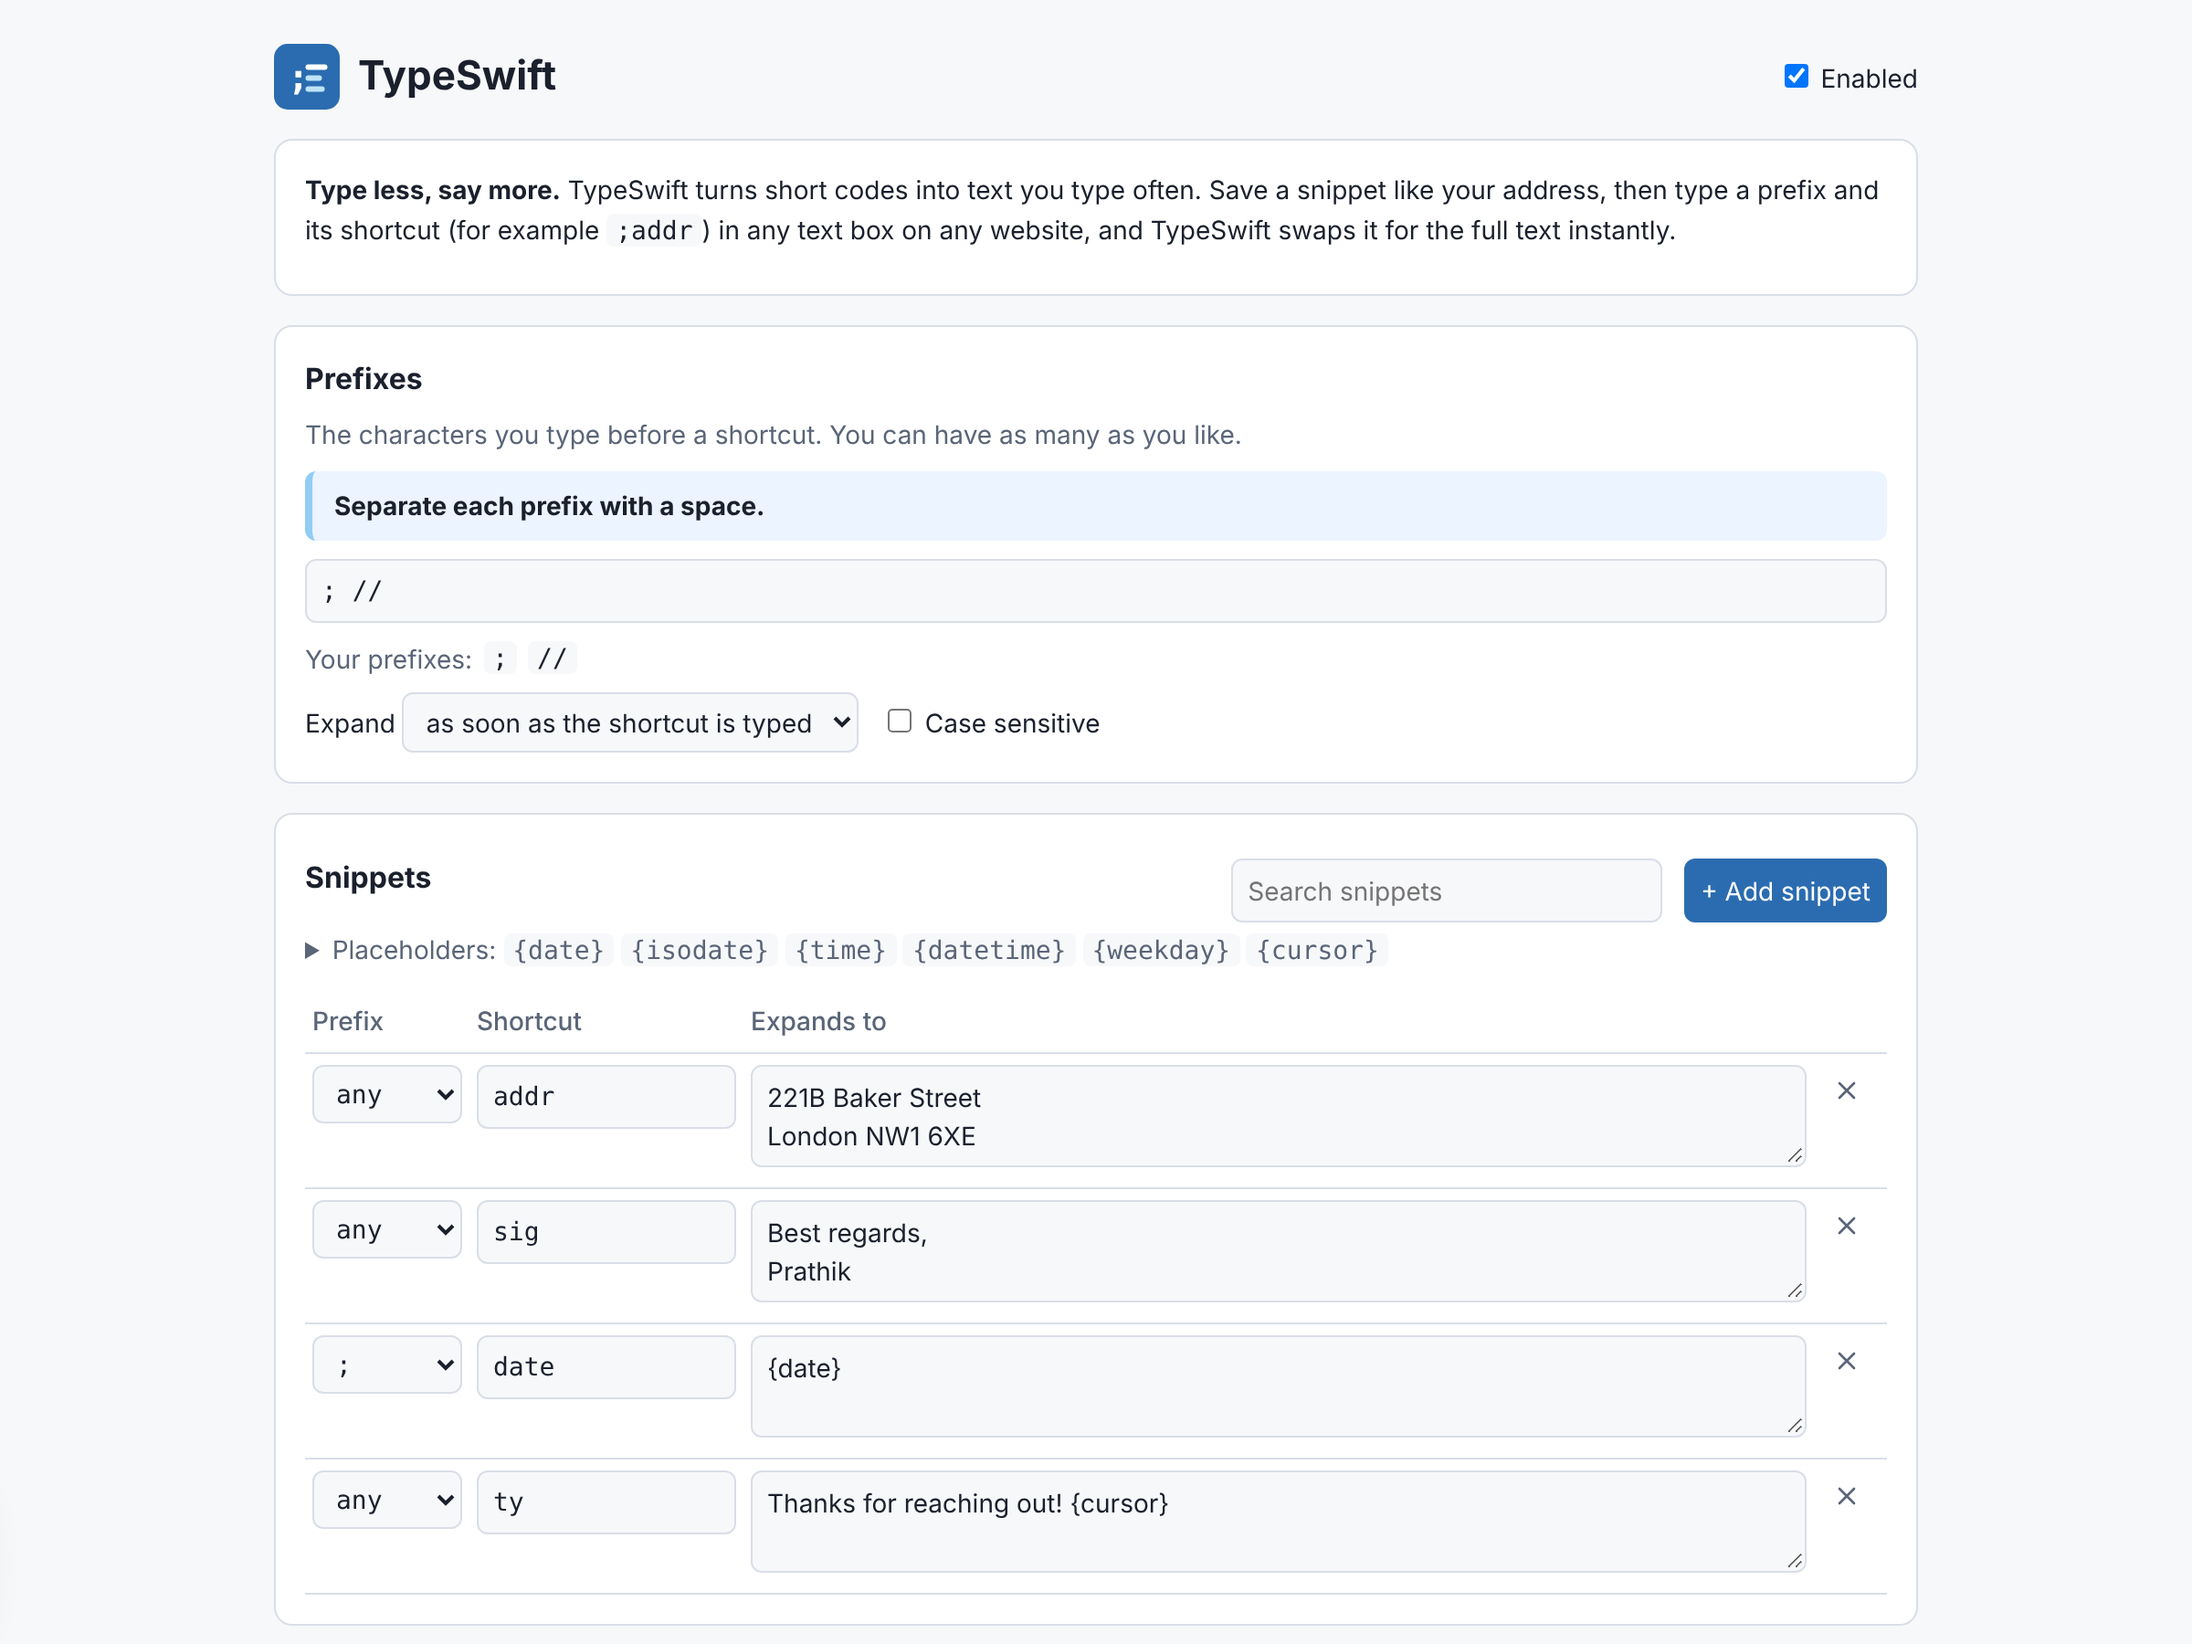
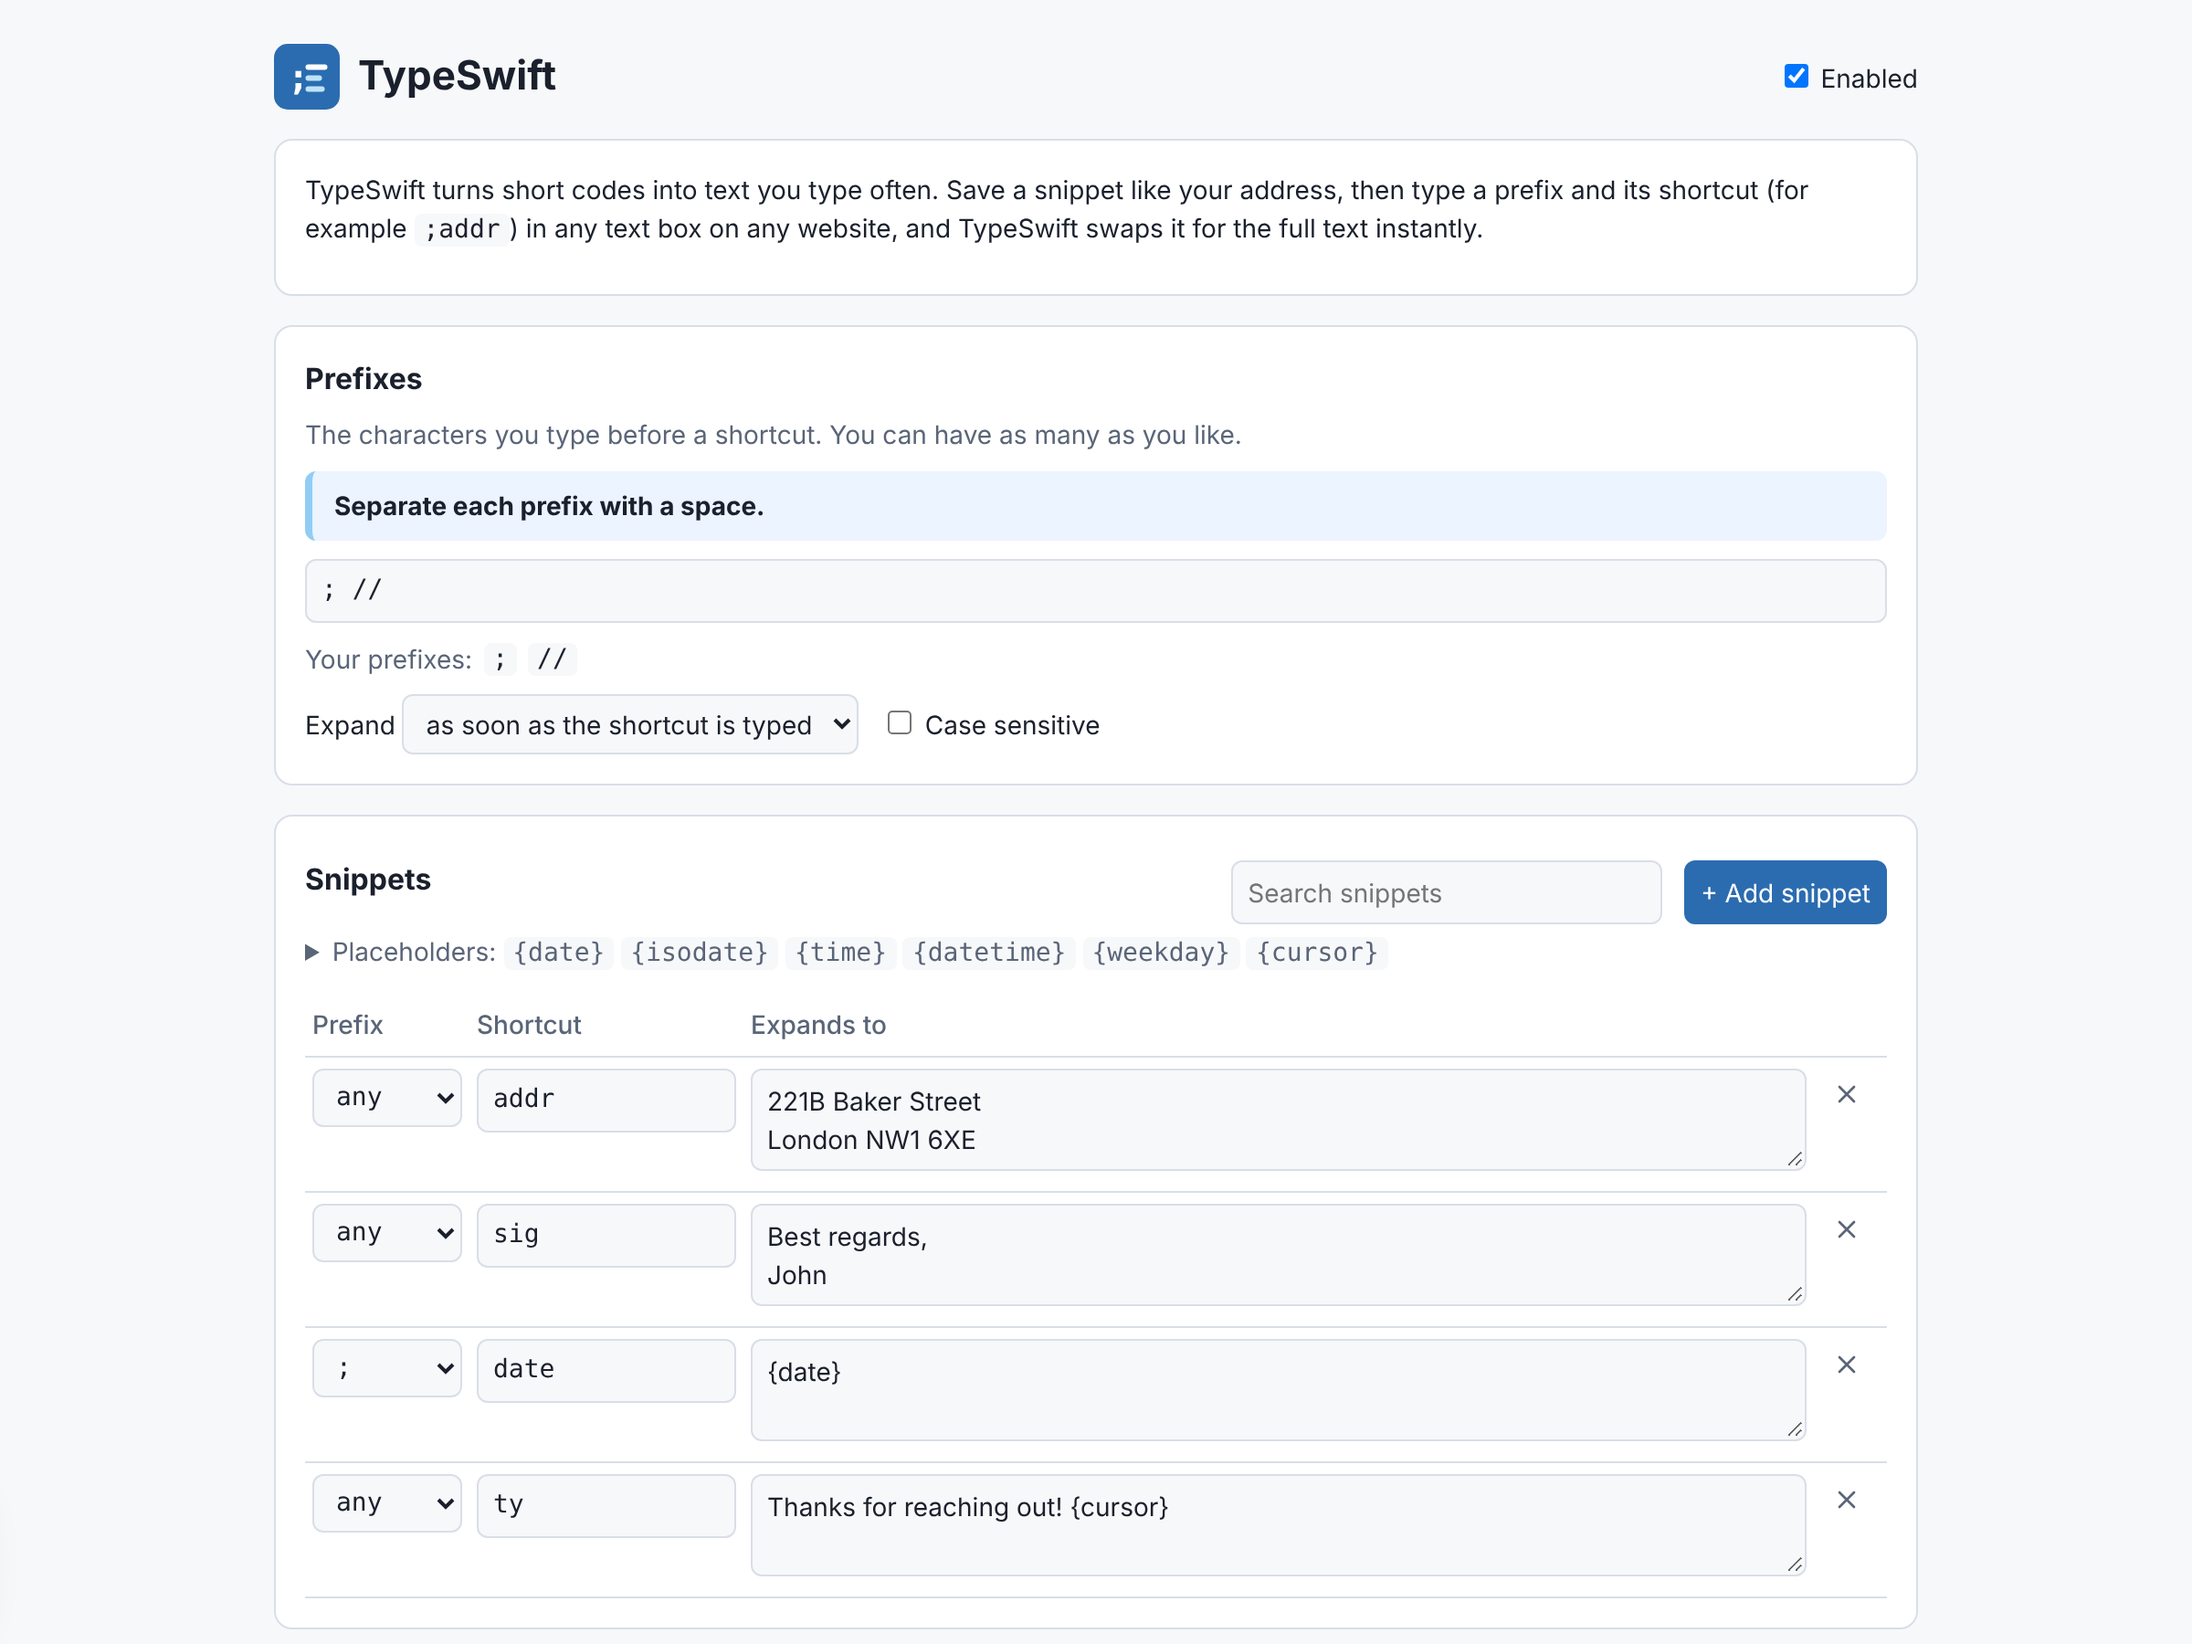
minor fixes

diff --git a/src/options/options.html b/src/options/options.html
@@ -15,7 +15,7 @@
   </header>
 
   <section class="intro">
-    <p><strong>Type less, say more.</strong> TypeSwift turns short codes into text you type often. Save a snippet like your address, then type a prefix and its shortcut (for example <code>;addr</code>) in any text box on any website, and TypeSwift swaps it for the full text instantly.</p>
+    <p>TypeSwift turns short codes into text you type often. Save a snippet like your address, then type a prefix and its shortcut (for example <code>;addr</code>) in any text box on any website, and TypeSwift swaps it for the full text instantly.</p>
   </section>
 
   <section>

diff --git a/src/shared.js b/src/shared.js
@@ -12,7 +12,7 @@
     blockedSites: [],
     snippets: [
       { id: "s1", prefix: "*", abbr: "addr", text: "221B Baker Street\nLondon NW1 6XE" },
-      { id: "s2", prefix: "*", abbr: "sig", text: "Best regards,\nPrathik" },
+      { id: "s2", prefix: "*", abbr: "sig", text: "Best regards,\nJohn" },
       { id: "s3", prefix: ";", abbr: "date", text: "{date}" },
       { id: "s4", prefix: "*", abbr: "ty", text: "Thanks for reaching out! {cursor}" }
     ]

diff --git a/README.md b/README.md
@@ -4,7 +4,7 @@
 
 <h1 align="center">TypeSwift</h1>
 
-<p align="center"><strong>Type less, say more.</strong> A text expander for Firefox.</p>
+<p align="center"><strong>A text expander for Firefox.</strong></p>
 
 ---
 
